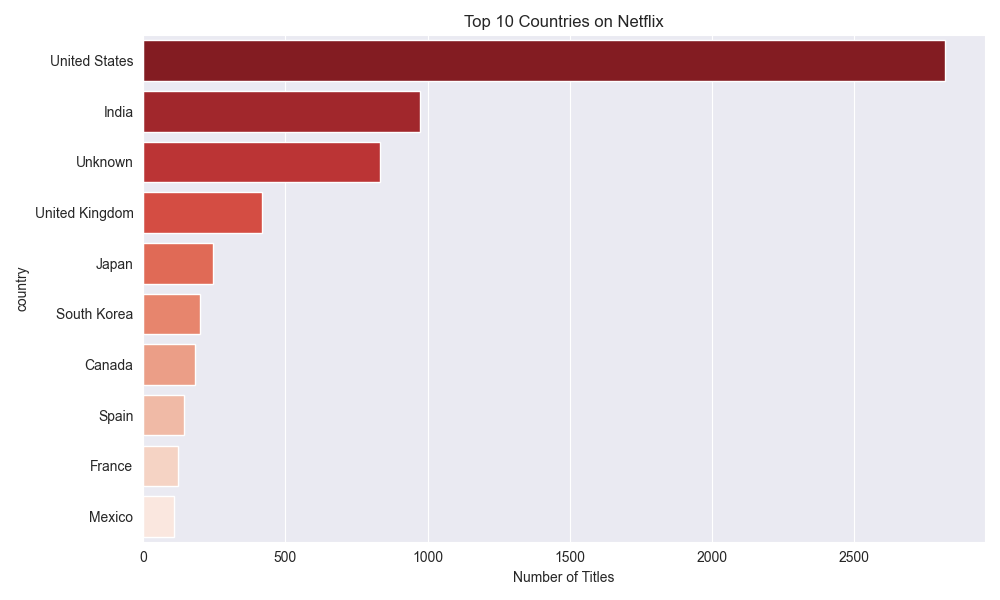
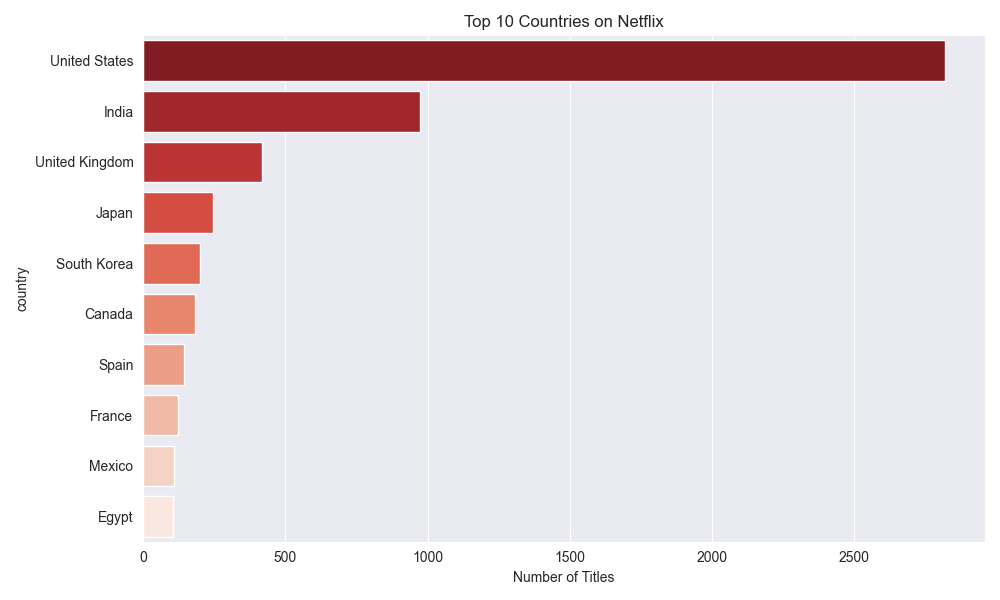
Add complete Netflix analysis code, datasets and SQL queries

diff --git a/netflix_analysis.py b/netflix_analysis.py
@@ -1,87 +1,237 @@
-# Step 5: SQL Analysis
+# Netflix Content Strategy & Trend Analysis
+# By Mokshit Yadav
+# Tools: Python, SQL, Scikit-Learn, Power BI
+
 
 import pandas as pd
+import numpy as np
+import matplotlib.pyplot as plt
+import seaborn as sns
+from sklearn.cluster import KMeans
+from sklearn.preprocessing import StandardScaler
 import sqlite3
+import os
 
-# Load cleaned data
-df = pd.read_csv('netflix_cleaned.csv')
 
-# Create SQL database in memory
+#LOAD & EXPLORE DATASET
+
+
+df = pd.read_csv('netflix_titles.csv')
+
+print("=" * 50)
+print("STEP 1: DATASET OVERVIEW")
+print("=" * 50)
+print(f"Shape: {df.shape}")
+print(f"\nColumns: {df.columns.tolist()}")
+print(f"\nMissing Values:\n{df.isnull().sum()}")
+
+#DATA CLEANING
+
+
+print("\n" + "=" * 50)
+print("STEP 2: DATA CLEANING")
+print("=" * 50)
+
+df['director'] = df['director'].fillna('Unknown')
+df['cast'] = df['cast'].fillna('Unknown')
+df['country'] = df['country'].fillna('Unknown')
+df['rating'] = df['rating'].fillna('Not Rated')
+df['duration'] = df['duration'].fillna('Unknown')
+
+# Convert date_added to datetime
+df['date_added'] = pd.to_datetime(df['date_added'].str.strip(), errors='coerce')
+df['year_added'] = df['date_added'].dt.year
+df['month_added'] = df['date_added'].dt.month
+
+# Remove duplicates
+df.drop_duplicates(inplace=True)
+
+print(f"Total rows after cleaning: {len(df)}")
+print(f"Missing values after cleaning:\n{df.isnull().sum()}")
+
+# Save cleaned data
+df.to_csv('netflix_cleaned.csv', index=False)
+print("✅ Cleaned data saved as netflix_cleaned.csv")
+
+
+#EXPLORATORY DATA ANALYSIS (EDA)
+
+
+print("\n" + "=" * 50)
+print("STEP 3: EDA - CREATING CHARTS")
+print("=" * 50)
+
+os.makedirs('charts', exist_ok=True)
+sns.set_style('darkgrid')
+plt.rcParams['figure.figsize'] = (10, 6)
+
+# Chart 1: Movies vs TV Shows
+plt.figure()
+df['type'].value_counts().plot(kind='bar', color=['#E50914', '#221F1F'])
+plt.title('Movies vs TV Shows on Netflix')
+plt.xlabel('Type')
+plt.ylabel('Count')
+plt.xticks(rotation=0)
+plt.tight_layout()
+plt.savefig('charts/01_movies_vs_tvshows.png')
+plt.close()
+print("✅ Chart 1 saved: Movies vs TV Shows")
+
+# Chart 2: Top 10 Countries
+plt.figure()
+top_countries = df[df['country'] != 'Unknown']['country'].value_counts().head(10)
+sns.barplot(x=top_countries.values, y=top_countries.index, hue=top_countries.index, palette='Reds_r', legend=False)
+plt.title('Top 10 Countries on Netflix')
+plt.xlabel('Number of Titles')
+plt.tight_layout()
+plt.savefig('charts/02_top_countries.png')
+plt.close()
+print("✅ Chart 2 saved: Top 10 Countries")
+
+# Chart 3: Content Added Per Year
+plt.figure()
+yearly = df['year_added'].value_counts().sort_index()
+sns.lineplot(x=yearly.index, y=yearly.values, color='#E50914', linewidth=2.5)
+plt.title('Content Added to Netflix Per Year')
+plt.xlabel('Year')
+plt.ylabel('Number of Titles')
+plt.tight_layout()
+plt.savefig('charts/03_content_per_year.png')
+plt.close()
+print("✅ Chart 3 saved: Content Per Year")
+
+# Chart 4: Top 10 Genres
+plt.figure()
+genres = df['listed_in'].str.split(',').explode().str.strip()
+top_genres = genres.value_counts().head(10)
+sns.barplot(x=top_genres.values, y=top_genres.index, hue=top_genres.index, palette='Reds_r', legend=False)
+plt.title('Top 10 Genres on Netflix')
+plt.xlabel('Count')
+plt.tight_layout()
+plt.savefig('charts/04_top_genres.png')
+plt.close()
+print("✅ Chart 4 saved: Top 10 Genres")
+
+# Chart 5: Ratings Distribution
+plt.figure()
+df['rating'].value_counts().plot(kind='bar', color='#E50914')
+plt.title('Content Rating Distribution')
+plt.xlabel('Rating')
+plt.ylabel('Count')
+plt.xticks(rotation=45)
+plt.tight_layout()
+plt.savefig('charts/05_ratings.png')
+plt.close()
+print("✅ Chart 5 saved: Ratings Distribution")
+
+print("\n🎉 All 5 EDA charts saved in charts/ folder!")
+
+
+#K-MEANS CLUSTERING ML MODEL
+
+
+print("\n" + "=" * 50)
+print("STEP 4: K-MEANS CLUSTERING MODEL")
+print("=" * 50)
+
+df_clean = pd.read_csv('netflix_cleaned.csv')
+
+df_clean['type_encoded'] = df_clean['type'].map({'Movie': 1, 'TV Show': 0})
+df_clean['duration_mins'] = df_clean['duration'].str.extract(r'(\d+)').astype(float)
+
+features = df_clean[['type_encoded', 'release_year', 'duration_mins']].dropna()
+
+scaler = StandardScaler()
+scaled = scaler.fit_transform(features)
+
+print(f"Training K-Means on {len(features)} Netflix titles...")
+
+kmeans = KMeans(n_clusters=4, random_state=42, n_init=10)
+kmeans.fit(scaled)
+
+features = features.copy()
+features['cluster'] = kmeans.labels_
+
+print(f"✅ Model built successfully!")
+print(f"\nCluster Distribution:\n{features['cluster'].value_counts().sort_index()}")
+
+# Cluster visualization
+plt.figure(figsize=(10, 6))
+scatter = plt.scatter(
+    features['release_year'],
+    features['duration_mins'],
+    c=features['cluster'],
+    cmap='Set1',
+    alpha=0.5,
+    s=10
+)
+plt.colorbar(scatter, label='Cluster')
+plt.title('Netflix Content Clusters (K-Means)')
+plt.xlabel('Release Year')
+plt.ylabel('Duration (mins/episodes)')
+plt.tight_layout()
+plt.savefig('charts/06_kmeans_clusters.png')
+plt.close()
+print("✅ Cluster chart saved!")
+
+# Save clustered data
+df_result = df_clean.copy()
+df_result = df_result.iloc[features.index]
+df_result['cluster'] = features['cluster'].values
+df_result.to_csv('netflix_clustered.csv', index=False)
+print("✅ Clustered data saved as netflix_clustered.csv")
+
+# Cluster Summary
+print("\nCluster Summary:")
+summary = df_result.groupby('cluster').agg({
+    'type': lambda x: x.value_counts().index[0],
+    'release_year': 'mean',
+    'duration_mins': 'mean',
+    'title': 'count'
+}).rename(columns={'title': 'total_titles'})
+print(summary)
+
+
+#SQL ANALYSIS
+
+
+print("\n" + "=" * 50)
+print("STEP 5: SQL ANALYSIS")
+print("=" * 50)
+
+df_sql = pd.read_csv('netflix_cleaned.csv')
 conn = sqlite3.connect('netflix.db')
-df.to_sql('netflix', conn, if_exists='replace', index=False)
+df_sql.to_sql('netflix', conn, if_exists='replace', index=False)
 
-print("=== DATABASE CREATED ===")
-print("Running SQL queries on Netflix data...\n")
+print("Database created! Running queries...\n")
 
-# ---- QUERY 1: Total Movies vs TV Shows ----
-q1 = pd.read_sql_query("""
-    SELECT type, COUNT(*) as total
-    FROM netflix
-    GROUP BY type
-    ORDER BY total DESC
-""", conn)
-print("=== Q1: Movies vs TV Shows ===")
+q1 = pd.read_sql_query("SELECT type, COUNT(*) as total FROM netflix GROUP BY type ORDER BY total DESC", conn)
+print("Q1: Movies vs TV Shows")
 print(q1)
 
-# ---- QUERY 2: Top 10 Countries ----
-q2 = pd.read_sql_query("""
-    SELECT country, COUNT(*) as total
-    FROM netflix
-    WHERE country != 'Unknown'
-    GROUP BY country
-    ORDER BY total DESC
-    LIMIT 10
-""", conn)
-print("\n=== Q2: Top 10 Countries ===")
+q2 = pd.read_sql_query("SELECT country, COUNT(*) as total FROM netflix WHERE country != 'Unknown' GROUP BY country ORDER BY total DESC LIMIT 10", conn)
+print("\nQ2: Top 10 Countries")
 print(q2)
 
-# ---- QUERY 3: Content added per year ----
-q3 = pd.read_sql_query("""
-    SELECT year_added, COUNT(*) as total
-    FROM netflix
-    WHERE year_added IS NOT NULL
-    GROUP BY year_added
-    ORDER BY year_added
-""", conn)
-print("\n=== Q3: Content Added Per Year ===")
+q3 = pd.read_sql_query("SELECT year_added, COUNT(*) as total FROM netflix WHERE year_added IS NOT NULL GROUP BY year_added ORDER BY year_added", conn)
+print("\nQ3: Content Added Per Year")
 print(q3)
 
-# ---- QUERY 4: Top 10 Ratings ----
-q4 = pd.read_sql_query("""
-    SELECT rating, COUNT(*) as total
-    FROM netflix
-    GROUP BY rating
-    ORDER BY total DESC
-    LIMIT 10
-""", conn)
-print("\n=== Q4: Top Ratings ===")
+q4 = pd.read_sql_query("SELECT rating, COUNT(*) as total FROM netflix GROUP BY rating ORDER BY total DESC LIMIT 10", conn)
+print("\nQ4: Top Ratings")
 print(q4)
 
-# ---- QUERY 5: Movies added after 2016 ----
-q5 = pd.read_sql_query("""
-    SELECT type, COUNT(*) as total
-    FROM netflix
-    WHERE year_added >= 2016
-    GROUP BY type
-""", conn)
-print("\n=== Q5: Content Added After 2016 ===")
+q5 = pd.read_sql_query("SELECT type, COUNT(*) as total FROM netflix WHERE year_added >= 2016 GROUP BY type", conn)
+print("\nQ5: Content Added After 2016")
 print(q5)
 
-# ---- QUERY 6: Top Directors ----
-q6 = pd.read_sql_query("""
-    SELECT director, COUNT(*) as total
-    FROM netflix
-    WHERE director != 'Unknown'
-    GROUP BY director
-    ORDER BY total DESC
-    LIMIT 10
-""", conn)
-print("\n=== Q6: Top 10 Directors ===")
+q6 = pd.read_sql_query("SELECT director, COUNT(*) as total FROM netflix WHERE director != 'Unknown' GROUP BY director ORDER BY total DESC LIMIT 10", conn)
+print("\nQ6: Top 10 Directors")
 print(q6)
 
-# Save SQL queries to file
-sql_queries = """
--- Netflix SQL Analysis
+# Save SQL file
+os.makedirs('sql', exist_ok=True)
+sql_queries = """-- Netflix SQL Analysis
 -- By Mokshit Yadav
 
 -- Q1: Movies vs TV Shows
@@ -127,12 +277,19 @@ ORDER BY total DESC
 LIMIT 10;
 """
 
-import os
-os.makedirs('sql', exist_ok=True)
 with open('sql/netflix_queries.sql', 'w') as f:
     f.write(sql_queries)
 
 conn.close()
-print("\n✅ SQL database created: netflix.db")
+print("\n✅ SQL database saved: netflix.db")
 print("✅ SQL queries saved: sql/netflix_queries.sql")
-print("\n🎉 SQL Analysis Complete!")
+
+print("\n" + "=" * 50)
+print("COMPLETED")
+print("=" * 50)
+print("Files created:")
+print("  ✅ netflix_cleaned.csv")
+print("  ✅ netflix_clustered.csv")
+print("  ✅ charts/ (6 PNG files)")
+print("  ✅ sql/netflix_queries.sql")
+print("  ✅ netflix.db")